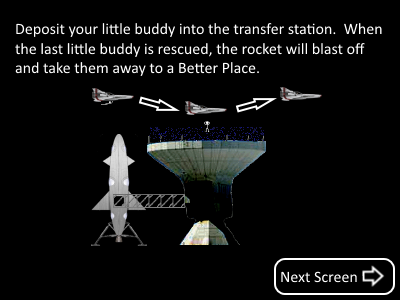
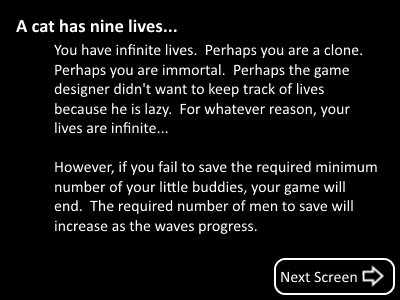
Changes to tutorials, player movement, cthortals

Changed region(s): [[0.03, 0.15, 0.96, 0.84], [0.03, 0.06, 0.96, 0.12], [0.21, 0.81, 0.24, 0.84]]

diff --git a/scripts/PlayerObject.js b/scripts/PlayerObject.js
@@ -199,19 +199,12 @@ PlayerObject.prototype.updateSound = function () {
 
 PlayerObject.prototype.updateTexture = function () {
     "use strict";
-    var pd, animset, texturetype, playertexture;
+    var pd, animset, playertexture;
     pd = this.playerdirection !== 0 ? this.playerdirection : this.olddirection;
     if (pd === 1) {
         animset = "ship_r.png";
     } else {
         animset = "ship.png";
-    }
-    if (this.playerdirection === 0) {
-        texturetype = "stop";
-    } else if (this.thrusters && this.playerfuel > 1) {
-        texturetype = "afterburn";
-    } else {
-        texturetype = "thrust";
     }
     playertexture = PIXI.Texture.fromFrame(animset);
     this.setTexture(playertexture);
@@ -307,7 +300,11 @@ PlayerObject.prototype.update = function (newx, units, dt) {
         } else {
             // the ship should move 1 pixel (up or down) every 10 milliseconds,
             // or 100 pixels per second.
-            vdelta = -((timeStamp() - this.vtime) / 10);
+            if (this.thrusters) {
+                vdelta = -1.5 * ((timeStamp() - this.vtime) / 10);
+            } else {
+                vdelta = -((timeStamp() - this.vtime) / 10);
+            }
         }
         this.vtime = timeStamp();
     } else if (this.vkey === 'down') {
@@ -316,7 +313,11 @@ PlayerObject.prototype.update = function (newx, units, dt) {
         } else {
             // the ship should move 1 pixel (up or down) every 10 milliseconds,
             // or 100 pixels per second.
-            vdelta = (timeStamp() - this.vtime) / 10;
+            if (this.thrusters) {
+                vdelta = 1.5 * (timeStamp() - this.vtime) / 10;
+            } else {
+                vdelta = (timeStamp() - this.vtime) / 10;
+            }
         }
         this.vtime = timeStamp();
     } else {

diff --git a/scripts/Cthortal.js b/scripts/Cthortal.js
@@ -101,7 +101,14 @@ Cthortal.prototype.expand = function (units) {
 
 Cthortal.prototype.createParticle = function (particle) {
     "use strict";
-    var texture = PIXI.Texture.fromFrame("cthorticle.png");
+    var texture,chances=Math.random();
+    if (chances<.75) {
+        texture = PIXI.Texture.fromFrame("eggplanticle.png");
+    } else if (chances<.85) {
+        texture = PIXI.Texture.fromFrame("tractoricle.png");
+    } else {
+        texture = PIXI.Texture.fromFrame("cthorticle.png");
+    }
     particle.sprite = new PIXI.Sprite(texture, 32, 32);
     particle.sprite.position.x = particle.position.x;
     particle.sprite.position.y = particle.position.y;

diff --git a/index.html b/index.html
@@ -239,7 +239,7 @@
 
     function clickTutorial() {
         tutorialindex++;
-        if (tutorialindex > 7) {
+        if (tutorialindex > 9) {
             tutorialindex = 0;
         }
         document.getElementById("content").innerHTML = '<img onclick="clickTutorial();" src="resources/tutorial' + tutorialindex + '.png" style="width:100%;height:100%;" />';

diff --git a/scripts/GameWorld.js b/scripts/GameWorld.js
@@ -45,6 +45,7 @@ function GameWorld(stage, renderer, game) {
     this.worldheight = 540;
     this.minimap = new MiniMap(stage, this, this.viewwidth, this.viewheight);
     this.keyarrs[13] = 'enter';
+    this.keyarrs[27] = 'escape'
     this.keyarrs[32] = 'space';
     this.keyarrs[37] = 'left';
     this.keyarrs[38] = 'up';
